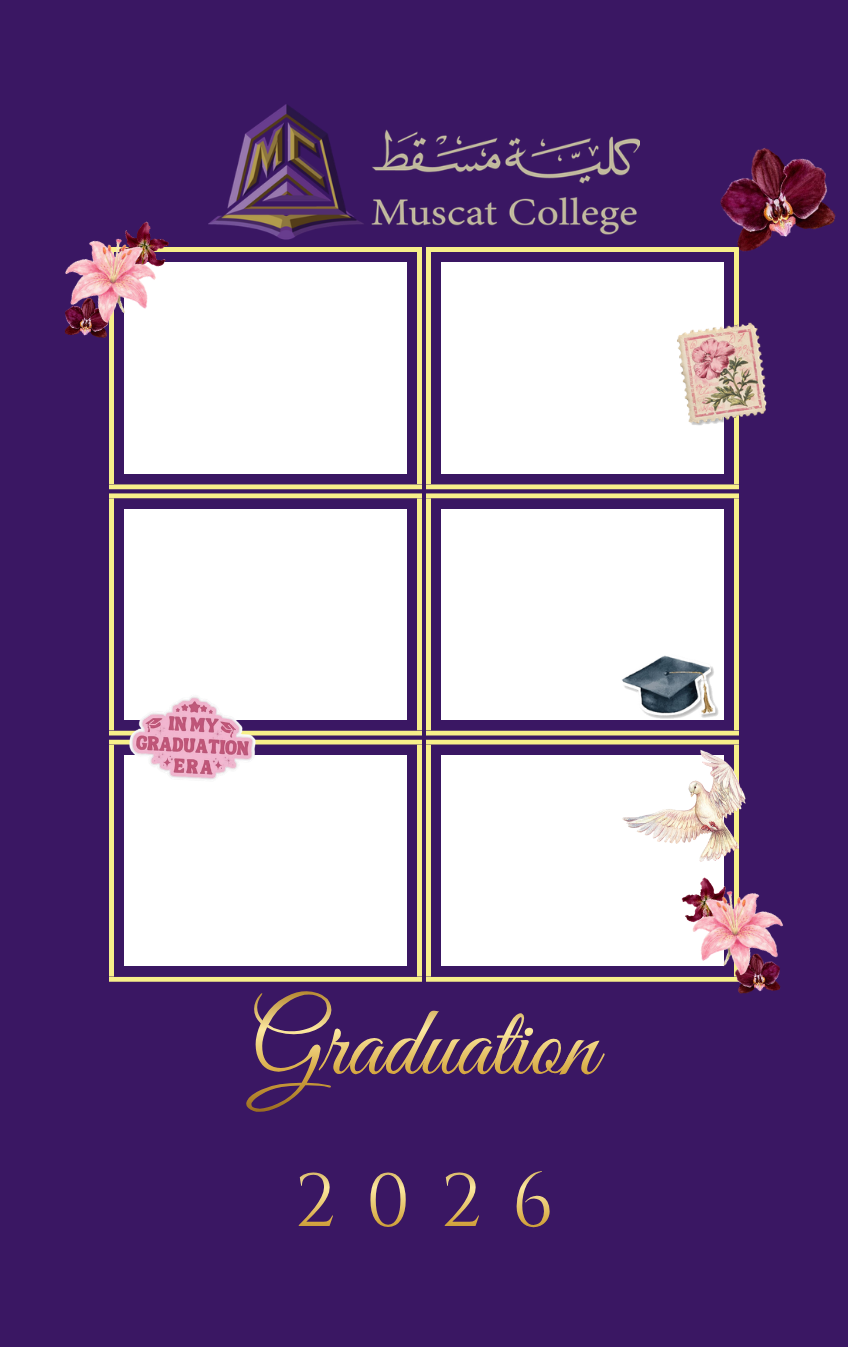
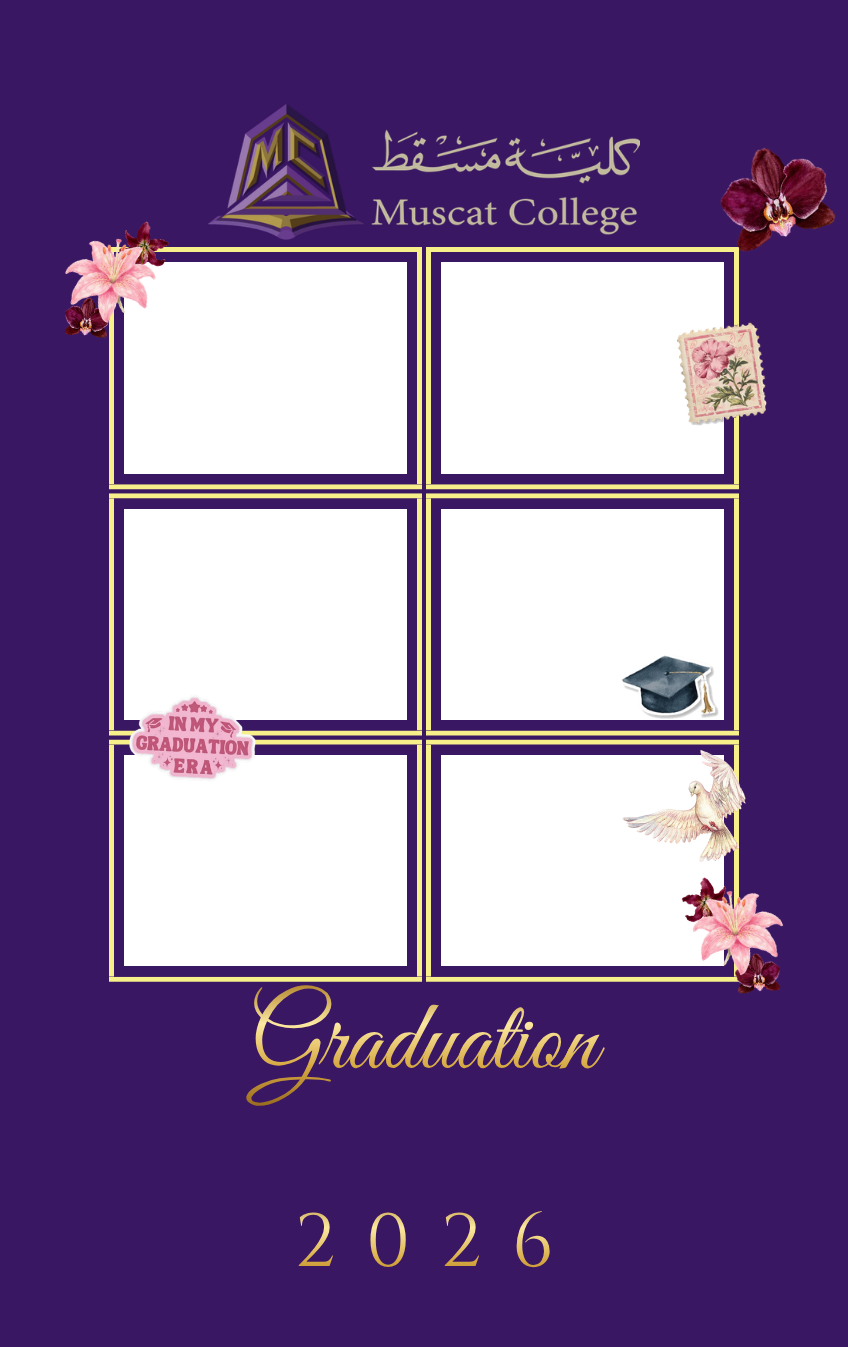
fix: more room and a matching font for the Muscat College name
New frame PNGs with a taller name band, per-layout band and font size, and a Cinzel gold-gradient name (Muscat College only).

diff --git a/lib/decor/caption-bitmap.ts b/lib/decor/caption-bitmap.ts
@@ -34,6 +34,8 @@ export function renderCaptionBitmap(
   lang: Lang,
   /** "now-playing" — the user-editable "artist" row under the title, falls back to "Photo Booth". "boarding-pass" — the "TO" city, falls back to "DESTINATION". Unused otherwise. */
   subtitleText?: string,
+  /** "name-band" only: optional gradient fill and letter-spacing (px). */
+  nameStyle?: { gradient?: [string, string, string]; letterSpacing?: number },
 ): HTMLCanvasElement {
   const canvas = document.createElement("canvas");
   canvas.width = width;
@@ -159,11 +161,26 @@ export function renderCaptionBitmap(
     ctx.fillStyle = colors.ink;
     ctx.textBaseline = "middle";
     const nameFamily = nameBandFamily(fontVar);
+    // Letter-spacing would pull Arabic letters apart, so it is Latin-only.
+    const spacing = lang === "ar" ? 0 : (nameStyle?.letterSpacing ?? 0);
+    ctx.letterSpacing = `${spacing}px`;
     ctx.font = `400 ${fontSize}px ${nameFamily}`;
     const measured = ctx.measureText(text).width;
-    const fitted = measured > width - padX * 2 ? (fontSize * (width - padX * 2)) / measured : fontSize;
+    const maxW = width - padX * 2;
+    const scale = measured > maxW ? maxW / measured : 1;
+    const fitted = fontSize * scale;
+    ctx.letterSpacing = `${spacing * scale}px`;
     ctx.font = `400 ${fitted}px ${nameFamily}`;
-    ctx.fillText(text, cx, cy + fitted * 0.04);
+    const y = cy + fitted * 0.04;
+    if (nameStyle?.gradient) {
+      const [top, mid, bottom] = nameStyle.gradient;
+      const grad = ctx.createLinearGradient(0, y - fitted * 0.4, 0, y + fitted * 0.4);
+      grad.addColorStop(0, top);
+      grad.addColorStop(0.5, mid);
+      grad.addColorStop(1, bottom);
+      ctx.fillStyle = grad;
+    }
+    ctx.fillText(text, cx, y);
   } else if (treatment === "airmail-tag") {
     ctx.font = `400 ${fontSize}px ${family}`;
     ctx.fillStyle = colors.ink;

diff --git a/lib/themes/muscat-college.ts b/lib/themes/muscat-college.ts
@@ -35,8 +35,10 @@ export const muscatCollege: ThemeDef = {
     piecePool: [],
     pieceCount: [0, 0],
     captionTreatment: "name-band",
-    captionFontVar: "--font-press-start",
-    captionFontSize: 36,
+    captionFontVar: "--font-cinzel",
+    captionFontSize: 46,
+    // Gold fading top to bottom, like the lettering on the frame.
+    captionStyle: { gradient: ["#FCE8A0", "#D6A842", "#96681E"], letterSpacing: 1.5 },
     outerFrame: { style: "none", width: 0 },
     overlayFrame: {
       dir: "/themes/muscat-college",
@@ -44,13 +46,16 @@ export const muscatCollege: ThemeDef = {
         // strip-3 is drawn with extra space above and below so the strip is
         // exactly 1:3 (848x2544), like the 4-photo strips.
         "strip-3": { topPad: 504, bottomPad: 622 },
+        // These two frames have a shorter name band (the year sits 26px higher).
+        "strip-4": { captionBand: { top: 145, height: 66 }, captionFontSize: 40 },
+        "double-strip-4": { captionBand: { top: 145, height: 66 }, captionFontSize: 40 },
       },
       // 4x6 in at 300 dpi: both strips fitted into 600x1800 halves, uncropped.
       printSheet: { width: 1200, height: 1800 },
     },
-    // The empty band between the script "Graduation" (ends 144px into the
-    // bottom area) and the year (starts 204px in), measured from the frames,
-    // with 1px of margin on each side.
-    captionBand: { top: 146, height: 57 },
+    // The empty band between the script "Graduation" (ends 138px into the
+    // bottom area) and the year (starts 244px in; 218px on the strip-4
+    // frames), measured from the frames, with about 6px clear on each side.
+    captionBand: { top: 145, height: 92 },
   },
 };

diff --git a/lib/themes/types.ts b/lib/themes/types.ts
@@ -8,6 +8,7 @@ export interface FrameGeometry {
   topPad?: number;
   bottomPad?: number;
   captionBand?: { top: number; height: number };
+  captionFontSize?: number;
 }
 
 /**
@@ -203,6 +204,8 @@ export interface ThemeDef {
     /** CSS custom property holding the canvas-ready font-family list. */
     captionFontVar: string;
     captionFontSize: number;
+    /** Optional look for the "name-band" caption: a top-to-bottom colour gradient (3 stops) instead of `colors.ink`, and letter-spacing in px. */
+    captionStyle?: { gradient?: [string, string, string]; letterSpacing?: number };
     /**
      * Shrinks the caption bitmap's width and shifts it right by this many
      * px, instead of spanning/centering across the full `canvasW` — for a

diff --git a/app/layout.tsx b/app/layout.tsx
@@ -12,6 +12,7 @@ import {
   Cairo,
   Bebas_Neue,
   Montserrat,
+  Cinzel,
 } from "next/font/google";
 import "./globals.css";
 
@@ -75,6 +76,9 @@ const montserrat = Montserrat({
   display: "swap",
 });
 
+// Serif that matches the Muscat College frame's "2026" (name-band caption).
+const cinzel = Cinzel({ subsets: ["latin"], variable: "--font-cinzel", display: "swap" });
+
 const fontVars = [
   archivo.variable,
   archivoBlack.variable,
@@ -88,6 +92,7 @@ const fontVars = [
   cairo.variable,
   bebasNeue.variable,
   montserrat.variable,
+  cinzel.variable,
 ].join(" ");
 
 export const metadata: Metadata = {

diff --git a/lib/strip-renderer.ts b/lib/strip-renderer.ts
@@ -650,6 +650,7 @@ export async function renderStrip(input: RenderStripInput): Promise<string> {
           strip.captionTreatment,
           lang,
           subtitle,
+          strip.captionStyle,
         );
         fCanvas.add(
           new FabricImage(captionCanvas, {
